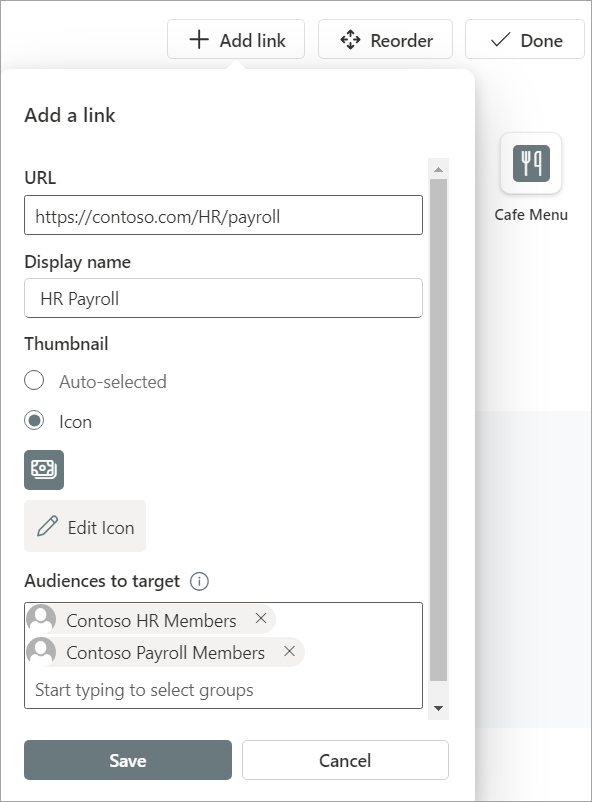
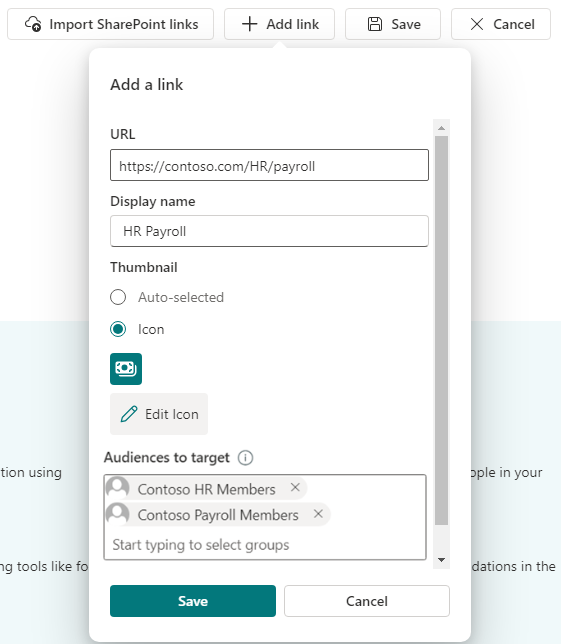
Added bulk edit and SharePoint link import for Resources
Updated the Resource section in edit-viva-home to include bulk edit and importing SharePoint links to the Resource section of VC. Updated/removed  screenshots where needed.

diff --git a/Viva/connections/edit-viva-home.md b/Viva/connections/edit-viva-home.md
@@ -77,22 +77,25 @@ If you're setting up Viva Connections for the first time, only owners of the Sha
 If your organization created [multiple Connections experiences](/viva/connections/viva-connections-overview#viva-connections-allows-for-multiple-home-sites-across-multiple-experiences), you can switch between enabled and draft experiences from within Connections in order to edit them.
 
 1. Navigate to the Viva Connections app in Teams.
+
 2. Select the **ellipsis** in the upper-right of your experience.
+
 3. Then select **Switch Experience**.
 
    :::image type="content" source="../media/connections/edit-viva-home/vc3-switch-experience.png" alt-text="Screenshot showing additional options with switch experience highlighted."lightbox="../media/connections/edit-viva-home/vc3-switch-experience.png":::
 
 > [!NOTE]
-> 
+>
 > Only users with edit privileges will be able to see the Switch Experience option in the menu.
 
 4. A list of created experiences display along with their status (enabled or draft). Select an **Experience** to switch to.
+
 5. Select **Switch**.
 
    :::image type="content" source="../media/connections/edit-viva-home/vc3-switch-experience-list.png" alt-text="Screenshot showing three available experiences and their status."lightbox="../media/connections/edit-viva-home/vc3-switch-experience-list.png":::
 
 > [!NOTE]
-> 
+>
 > Users are required to have a Microsoft Viva suite or Viva Communications and Communities license in order to create two or more experiences (up to 50). See [Microsoft Viva plans and pricing](https://www.microsoft.com/microsoft-viva/pricing) for more info.
 
 #### Give permission to edit from Viva Connections in Teams
@@ -100,10 +103,15 @@ If your organization created [multiple Connections experiences](/viva/connection
 If you're setting up Viva Connections for the first time, navigate to the Viva Connections app in Teams to assign owners and members who can edit the Viva Connections desktop experience.
 
 1. Navigate to the Viva Connections app in Teams.
+
 2. Select the **ellipsis** in the upper-right of your experience.
+
 3. Then select **Manage access**.
+
 4. Select **Grant access**.
+
 5. Under **Site Access** add users and select their level of permission from visitor, member, or owner.
+
 6. Select **Add**.
 
 #### Choose default cards for the intended audience
@@ -148,7 +156,7 @@ Apply **Audience targeting** so this card is filtered to specific roles, regions
 
 7. **Resources:** Create a list of navigational links and icons to useful sites and information.
 
-### Summary of non-customizable elements
+### Summary of noncustomizable elements
 
 :::image type="content" source="../media/connections/edit-viva-home/vc3-non-customizable-elements.png" alt-text="Screenshot of the full page Connections experience with labels that explain which parts can be further edited."lightbox="../media/connections/edit-viva-home/vc3-non-customizable-elements.png":::
 
@@ -172,7 +180,7 @@ Apply **Audience targeting** so this card is filtered to specific roles, regions
 >
 > The Viva Connections app is automatically pinned in the Teams app bar. If you don’t want the app pre-pinned, either [turn off tailored apps for frontline workers](/microsoft-365/frontline/pin-teams-apps-based-on-license), change the [app settings](/microsoftteams/teams-custom-app-policies-and-settings), or [edit how apps in Teams are managed](/microsoftteams/manage-apps).
 
-Your organization’s Viva Connections app can display a custom icon and label in the Teams app bar. This customization takes place in the Teams admin center, which requires Teams admin permissions or higher. It's recommended that you also apply app settings that [pre-pin and pre-install the app](/microsoftteams/teams-app-setup-policies). Doing so makes sure people in your organization can more easily discover the Viva Connections app and start using it. Learn more about [customizing the Viva Connections icon, label, and app settings](add-viva-connections-app.md).
+Your organization’s Viva Connections app can display a custom icon and label in the Teams app bar. This customization takes place in the Teams admin center, which requires Teams admin permissions or higher. It's recommended that you also apply app settings that [prepin and preinstall the app](/microsoftteams/teams-app-setup-policies). Doing so makes sure people in your organization can more easily discover the Viva Connections app and start using it. Learn more about [customizing the Viva Connections icon, label, and app settings](add-viva-connections-app.md).
 
 ## Customize announcements
 
@@ -303,7 +311,7 @@ To apply a SharePoint or custom theme:
     :::image type="content" source="../media/connections/edit-viva-home/vc3-themes.png" alt-text="Screenshot showing examples of organization created themes and Microsoft default themes.":::
 
 > [!NOTE]
-> 
+>
 > - If an end user has selected dark mode on their mobile or tablet device, the dashboard and other Connections components will render in dark mode with the default color and will not apply the theme colors.
 > - Dark themes (has the property `isInverted=True`), won’t be applied to the mobile experience. If the dark theme is selected, mobile will continue showing Connections with the user’s selected mode (light or dark) and the default colors.
 
@@ -336,27 +344,29 @@ After creating or editing cards on the Dashboard, make sure you preview the expe
 
 ## Customize resources
 
-Resources provide links to the most popular portals and destinations at your organization and can be found below the dashboard of the Connections experience. Links in the Resources section can be [targeted to specific audiences](use-audience-targeting-in-viva-connections.md#apply-audience-targeting-to-links-in-resources) and any edits made affect [the mobile experience](viva-connections-overview.md#the-viva-connections-mobile-experience) as well.
+Resources provide links to the most popular portals and destinations at your organization and can be found below the dashboard of the Connections experience. Operators and members can import navigational links from a SharePoint home site or global navigation bar, or create their own links, which can all be [targeted to specific audiences](use-audience-targeting-in-viva-connections). Any edits made to the resource section will also show in [the mobile experience](viva-connections-overview.md#the-viva-connections-mobile-experience).
 
 > [!NOTE]
 >
-> Global navigation can be accessed by clicking on the **Connections** icon in the Teams app bar. [Refer to this document if you're setting up global navigation for the first time.](sharepoint-app-bar.md)
+> - Global navigation can be accessed by clicking on the **Connections** icon in the Teams app bar. [Refer to this document if you're setting up global navigation for the first time.](sharepoint-app-bar.md)
+> - You must manually save your changes when finished editing resource links.
 
 ### To edit Resources
 
 1. Start by selecting **Edit**.
 
-2. To add a new link, select **+ Add Link**.  
-
-   :::image type="content" source="../media/connections/edit-viva-home/atr-reorder-resources.png" alt-text="Screenshot showing options to add a link, reorder links, or finish editing (done)."lightbox="../media/connections/edit-viva-home/atr-reorder-resources.png":::
+2. To add a new link, select **+ Add Link**.
 
 3. In the Add a Link window that opens, paste the link to the site in the **URL** field.
+
     - Only modern SharePoint sites and certain Microsoft 365 experiences display in Teams. All other types of content open in a separate browser window.
 
 4. Enter a **Display name**.
 
 5. Under Thumbnail, select a choice to represent your resource link.
-    - **Auto-selected**: the icon is generated based on the URL, if applicable (a link icon displays by default if one can't be auto-generated).
+
+    - **Auto-selected**: the icon is generated based on the URL, if applicable (a link icon displays by default if one can't be autogenerated).
+
     - **Icon**: choose an icon from a pre-existing list by selecting **edit icon**.
 
 6. To apply audience targeting to this resource, enter one or more Microsoft 365 groups in the **Audiences to target** field (up to 10 audiences can be targeted). Learn more about [audience targeting for resources](use-audience-targeting-in-viva-connections.md#apply-audience-targeting-to-links-in-resources).
@@ -365,9 +375,32 @@ Resources provide links to the most popular portals and destinations at your org
 
    :::image type="content" source="../media/connections/edit-viva-home/atr-audiences-to-target.png" alt-text="Screenshot showing the 'add a link' properties."lightbox="../media/connections/edit-viva-home/atr-audiences-to-target.png":::
 
-8. The new resource will appear. If audience targeting is active, you’ll see an icon in the upper left of the resource link.
+8. The new resource appears. If audience targeting is active, you’ll see an icon in the upper left of the resource link.
 
    :::image type="content" source="../media/connections/edit-viva-home/atr-audience-targeting-icon.png" alt-text="Screenshot of the audience targeting icon shown in the upper left of the resource link."lightbox="../media/connections/edit-viva-home/atr-audience-targeting-icon.png":::
+
+9. Continue editing your resource links. When finished, select **Save** to confirm your changes.
+
+### Import SharePoint links  
+You can import navigational links from a SharePoint home site and the SharePoint global navigation bar into your resources.
+
+1. Start by selecting **Edit** in the Resources section of your Connections experience.
+
+2. Select **Import SharePoint links**.
+
+3. Select which navigation you want to **import from** (unavailable navigation is greyed out).
+
+4. Select which links to import.
+
+5. Select **Keep audience targeting** if you want to enable existing audience targeting settings for your selected imported links.
+
+6. Select **Import**.
+
+   :::image type="content" source="../media/connections/edit-viva-home/atr-import-sharepoint-links.png" alt-text="Screenshot of the Import properties panel."lightbox="../media/connections/edit-viva-home/atr-import-sharepoint-links.png":::
+
+7. The selected links are added to your resources.
+
+8. Continue editing your resource links. When finished, select **Save** to confirm your changes.
 
 ### Edit an existing resource link
 
@@ -379,7 +412,11 @@ Resources provide links to the most popular portals and destinations at your org
 
    :::image type="content" source="../media/connections/edit-viva-home/atr-edit-resource.png" alt-text="Screenshot of the resource link drop-down menu with the edit option highlighted."lightbox="../media/connections/edit-viva-home/atr-edit-resource.png":::
 
-### Delete and existing resource link
+4. When finished editing the resource link, select **Save** in the edit link window.
+
+5. Continue editing your resource links. When finished, select **Save** to confirm your changes.
+
+### Delete an existing resource link
 
 1. Start by selecting **Edit** in the Resources section of your Connections experience.
 
@@ -391,15 +428,15 @@ Resources provide links to the most popular portals and destinations at your org
 
 4. When asked to confirm, select **Delete**.
 
+5. Continue editing your resource links. When finished, select **Save** to confirm your changes.
+
 ### Reorder existing resource links
 
 1. Start by selecting **Edit** in the Resources section of your Connections experience.
 
-2. Select **Reorder**.
+2. Select a resource link and drag it to its new location.
 
-   :::image type="content" source="../media/connections/edit-viva-home/atr-reorder-resources.png" alt-text="Screenshot showing the option to reorder links."lightbox="../media/connections/edit-viva-home/atr-reorder-resources.png":::
-
-3. Select a resource link and drag it to its new location.
+3. Continue editing your resource links. When finished, select **Save** to confirm your changes.
 
 ## Learn more about how to influence content in the feed
 
@@ -418,7 +455,7 @@ The [Feed web part for Viva Connections](use-feed-web-part-for-viva-connections.
 The Viva Connections experience can be set in more than one language. Learn more about how [different elements of the experience can be edited to display in more than one language](viva-connections-language.md) and [how to create a multilingual dashboard](create-multilingual-dashboard.md).
 
 > [!NOTE]
-> 
+>
 > Viva Connections desktop applies the users’ SharePoint preferred language but not the Microsoft Teams language setting. However, for the mobile app, Viva Connections applies the device settings.
 
 ## Manage permissions
@@ -450,7 +487,7 @@ If you have owner permissions or higher, you can give access to new people and c
 If your organization already has a SharePoint home site and you want to keep it as the landing experience for the Connections desktop experience, use the PowerShell command listed in the following section to use the SharePoint home site. Learn more about [setting up Viva Connections in the Microsoft 365 admin center](set-up-admin-center.md).
 
 > [!NOTE]
-> 
+>
 > For customers who already have Viva Connections setup, your end users will be automatically routed to the new Viva Connections home experience in Teams if your organization decides to use the new design as the default experience. If your organization has a SharePoint home site, you can choose to keep it as the default home experience when the new experience is available.
 
 ## Choose the default landing experience for Viva Connections desktop
